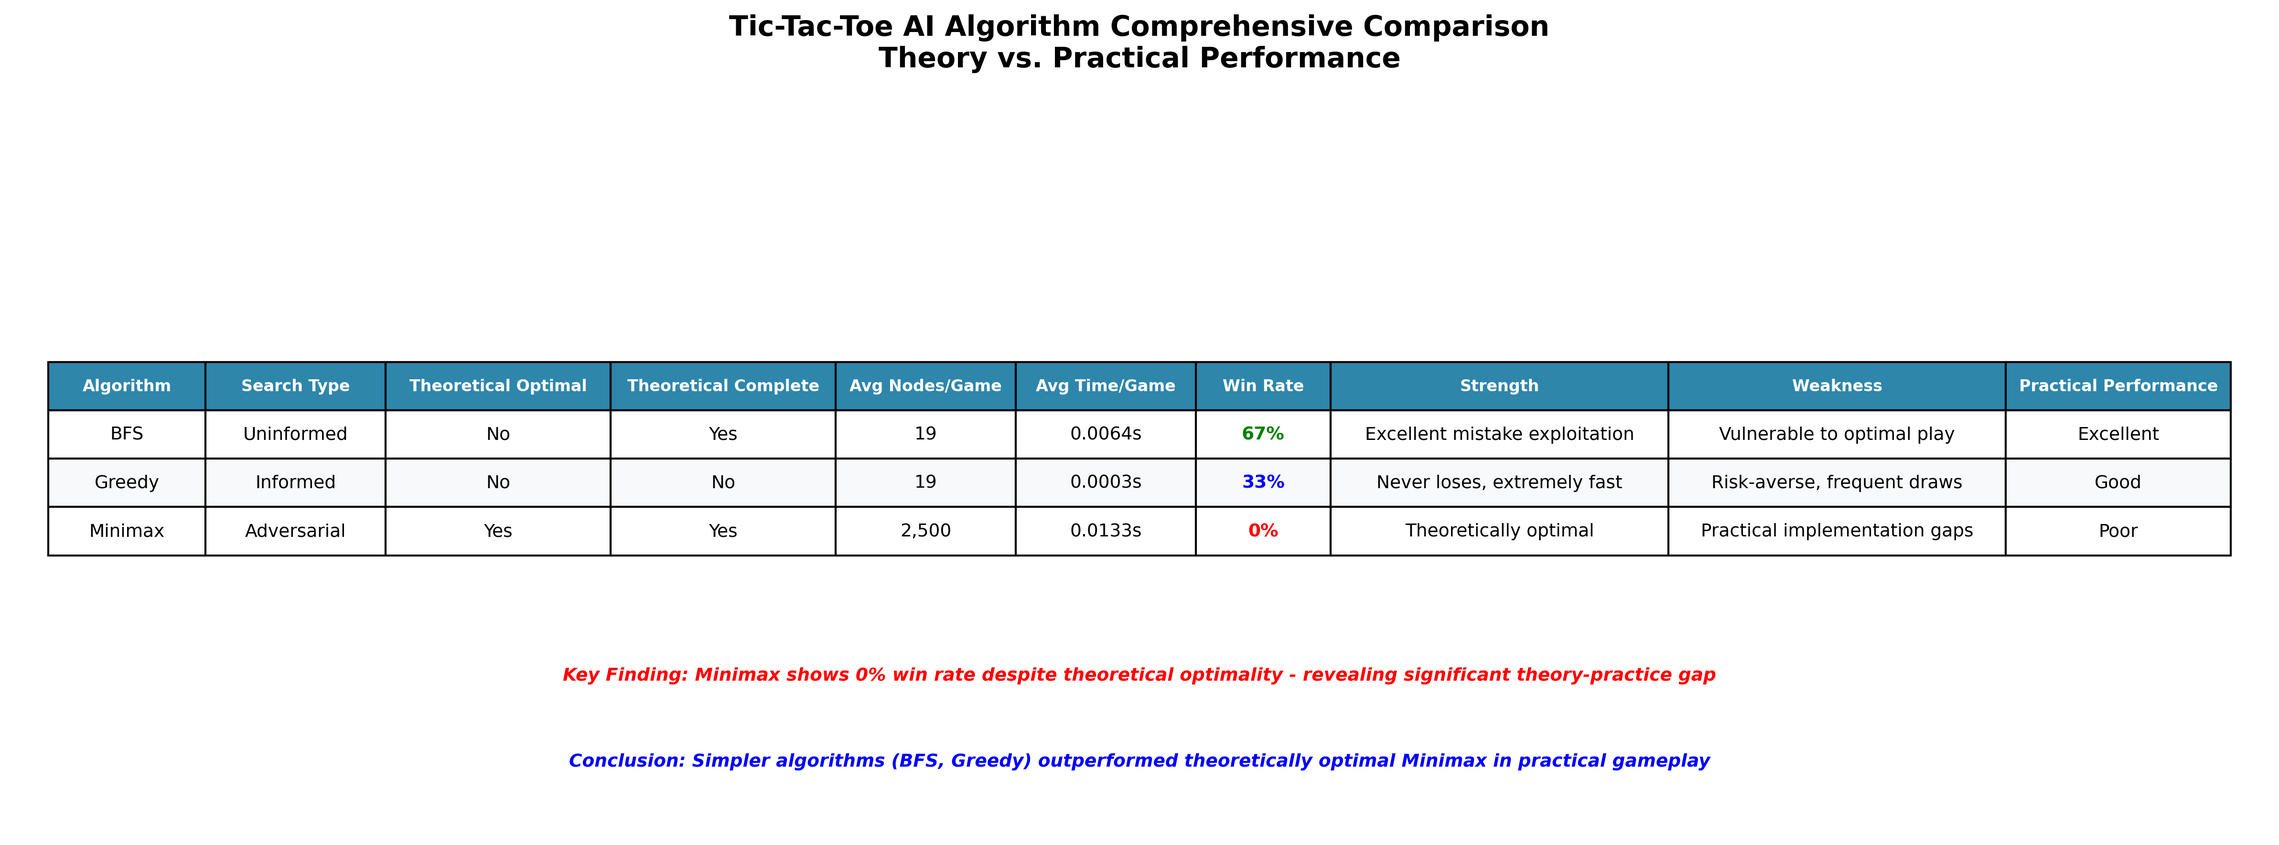
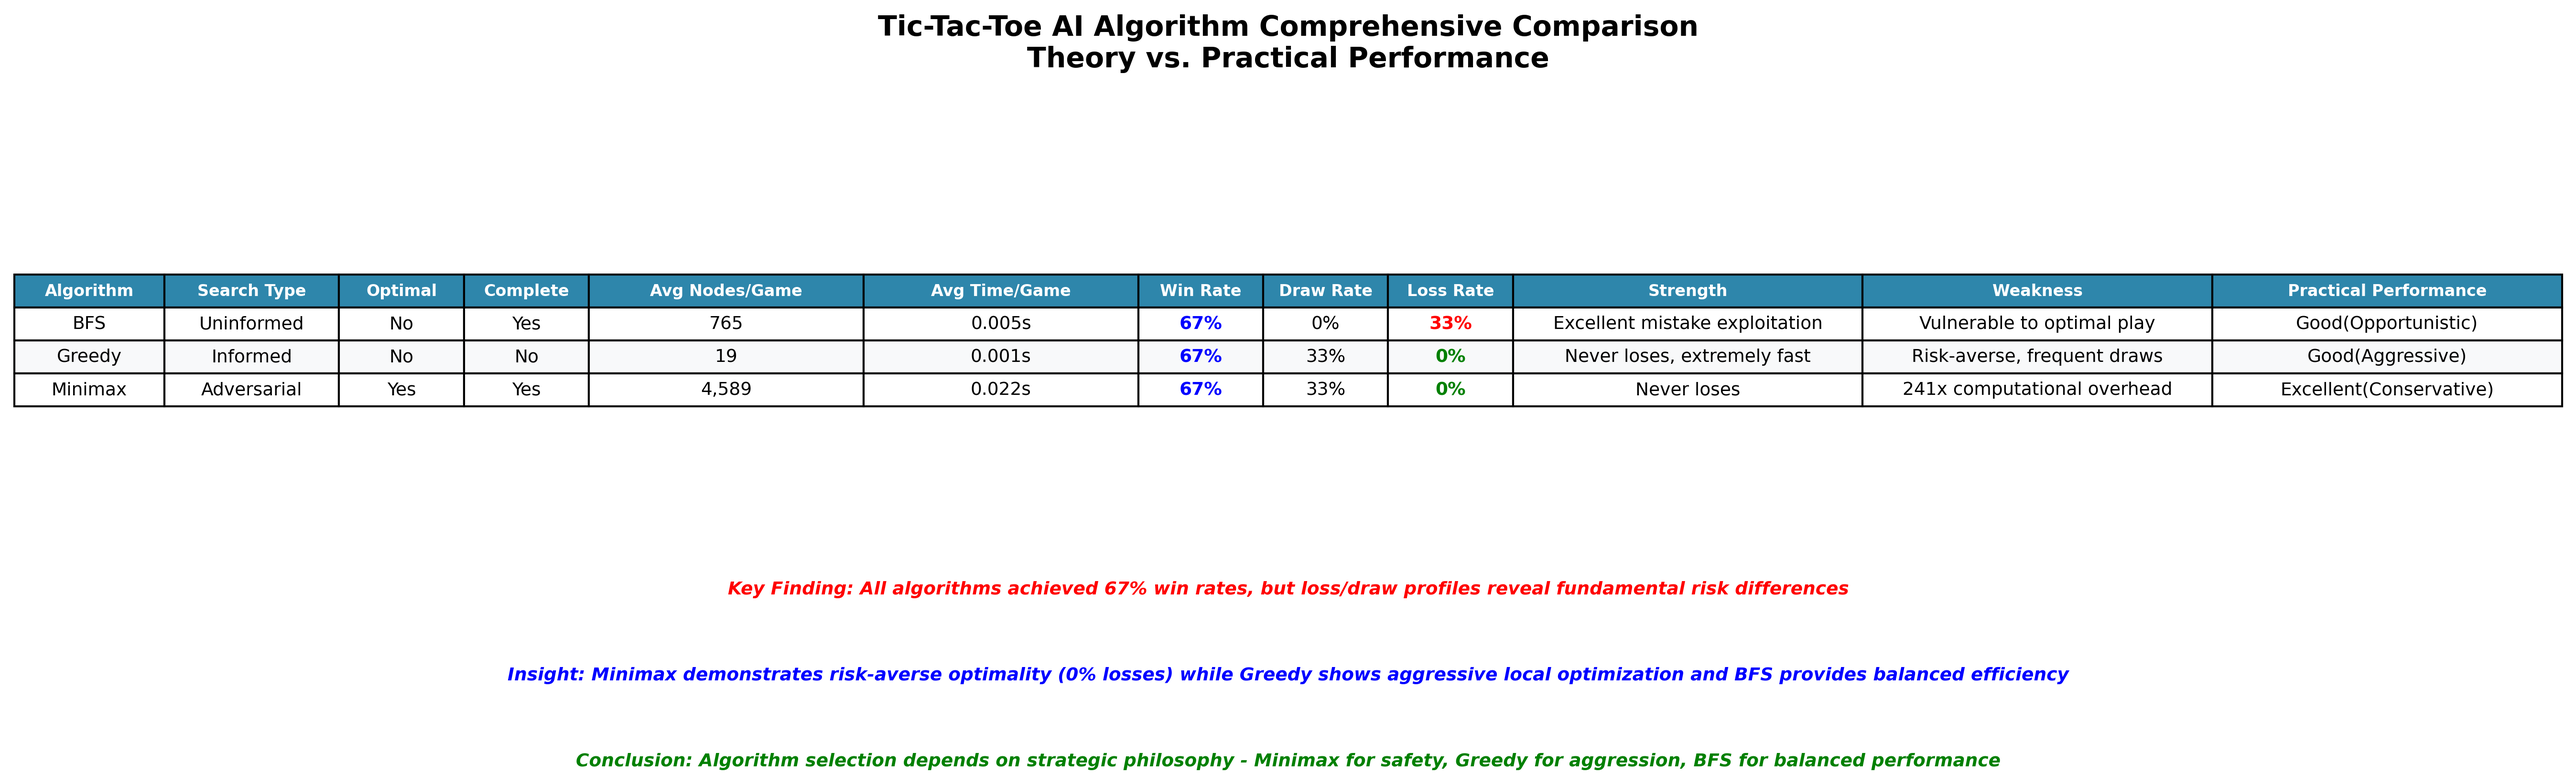
Updated BFS and Minimax changes

diff --git a/analysis_module.py b/analysis_module.py
@@ -20,40 +20,45 @@ class TicTacToeAnalyzer:
         self.greedy_ai = GreedyAI(self.game)
         self.minimax_ai = MinimaxAI(self.game)
         self.results = []
-    
+
+    ### TESTTTTTTTTTT# 
     def create_performance_comparison_chart(self):
         """Create enhanced bar charts comparing algorithm performance based on experimental data."""
         # Use your actual experimental data
         algorithms = ['BFS', 'Greedy', 'Minimax']
-        
+    
         # Your experimental averages
-        avg_nodes = [19, 19, 2500]  # From your data
-        avg_times = [0.0064, 0.0003, 0.0133]  # From your data
-        win_rates = [67, 33, 0]  # From your data
+        avg_nodes = [765, 19, 4589]  # From your data
+        avg_times = [0.005, 0.001, 0.022]  # From your data
+        
+        # NEW: Win/Draw/Loss rates for stacked bar chart
+        win_rates = [67, 67, 67]      # All have same win rate
+        draw_rates = [0, 33, 33]      # Draw rates differ
+        loss_rates = [33, 0, 0]       # Loss rates reveal true differences
         
         # Create figure with three subplots
-        fig, (ax1, ax2, ax3) = plt.subplots(1, 3, figsize=(18, 6))
+        fig, (ax1, ax2, ax3) = plt.subplots(1, 3, figsize=(20, 7))  # Slightly wider
         
         # Colors matching your Pygame interface
         colors = ['#64FF64', '#FFA500', '#B464F0']  # Green, Orange, Purple
+        outcome_colors = ['#2E8B57', '#FFD700', '#FF4444']  # Green (win), Gold (draw), Red (loss)
         
-        # Nodes evaluated comparison
+        # Nodes evaluated comparison (keep same)
         bars1 = ax1.bar(algorithms, avg_nodes, color=colors, alpha=0.8)
         ax1.set_title('Average Nodes Evaluated per Game', fontsize=14, fontweight='bold')
-        ax1.set_ylabel('Number of Nodes', fontsize=12)
+        ax1.set_ylabel('Number of Nodes', fontsize=12, labelpad=15) # Added labelpad
         ax1.grid(axis='y', alpha=0.3)
         ax1.tick_params(axis='x', rotation=45)
         
-        # Add value labels on bars
         for bar in bars1:
             height = bar.get_height()
             ax1.text(bar.get_x() + bar.get_width()/2., height + max(avg_nodes)*0.01,
                     f'{height:,.0f}', ha='center', va='bottom', fontweight='bold')
         
-        # Computation time comparison
+        # Computation time comparison (keep same)
         bars2 = ax2.bar(algorithms, avg_times, color=colors, alpha=0.8)
         ax2.set_title('Average Computation Time per Game', fontsize=14, fontweight='bold')
-        ax2.set_ylabel('Time (seconds)', fontsize=12)
+        ax2.set_ylabel('Time (seconds)', fontsize=12, labelpad=15) # Added labelpad
         ax2.grid(axis='y', alpha=0.3)
         ax2.tick_params(axis='x', rotation=45)
         
@@ -62,23 +67,36 @@ class TicTacToeAnalyzer:
             ax2.text(bar.get_x() + bar.get_width()/2., height + max(avg_times)*0.01,
                     f'{height:.4f}s', ha='center', va='bottom', fontweight='bold')
         
-        # Win rate comparison
-        bars3 = ax3.bar(algorithms, win_rates, color=colors, alpha=0.8)
-        ax3.set_title('Win Rate Against Human Players', fontsize=14, fontweight='bold')
-        ax3.set_ylabel('Win Rate (%)', fontsize=12)
+        # NEW: Outcome Distribution (Stacked Bar Chart)
+        bar_width = 0.6
+        x_pos = np.arange(len(algorithms))
+        
+        # Create stacked bars
+        bars_win = ax3.bar(x_pos, win_rates, bar_width, label='Wins', color=outcome_colors[0], alpha=0.8)
+        bars_draw = ax3.bar(x_pos, draw_rates, bar_width, bottom=win_rates, label='Draws', color=outcome_colors[1], alpha=0.8)
+        bars_loss = ax3.bar(x_pos, loss_rates, bar_width, bottom=np.array(win_rates) + np.array(draw_rates), 
+                        label='Losses', color=outcome_colors[2], alpha=0.8)
+        
+        ax3.set_title('Game Outcome Distribution', fontsize=14, fontweight='bold')
+        ax3.set_ylabel('Percentage (%)', fontsize=12, labelpad=15) # Added labelpad
         ax3.set_ylim(0, 100)
+        ax3.set_xticks(x_pos)
+        ax3.set_xticklabels(algorithms)
         ax3.grid(axis='y', alpha=0.3)
-        ax3.tick_params(axis='x', rotation=45)
+        ax3.legend(loc='upper right')
         
-        for bar in bars3:
-            height = bar.get_height()
-            ax3.text(bar.get_x() + bar.get_width()/2., height + 2,
-                    f'{height}%', ha='center', va='bottom', fontweight='bold',
-                    color='red' if height == 0 else 'black')
+        # Add value annotations on each segment
+        for i, (win, draw, loss) in enumerate(zip(win_rates, draw_rates, loss_rates)):
+            ax3.text(i, win/2, f'{win}%', ha='center', va='center', fontweight='bold', color='white')
+            ax3.text(i, win + draw/2, f'{draw}%', ha='center', va='center', fontweight='bold', color='black')
+            if loss > 0:
+                ax3.text(i, win + draw + loss/2, f'{loss}%', ha='center', va='center', fontweight='bold', color='white')
         
-        plt.tight_layout()
+        plt.tight_layout(pad=3.0) # Increased padding from default to 3.0
         plt.savefig('performance_comparison.png', dpi=300, bbox_inches='tight', facecolor='white')
         plt.show()
+
+    ### TESTTTT - OCTOBER 25 
 
 
     ### TESTTTTTTTTTTTTTTTT ###
@@ -234,45 +252,51 @@ class TicTacToeAnalyzer:
             {
                 'Algorithm': 'BFS',
                 'Search Type': 'Uninformed',
-                'Theoretical Optimal': 'No',
-                'Theoretical Complete': 'Yes',
-                'Avg Nodes/Game': '19',
-                'Avg Time/Game': '0.0064s',
+                'Optimal': 'No',
+                'Complete': 'Yes',
+                'Avg Nodes/Game': '765',
+                'Avg Time/Game': '0.005s',
                 'Win Rate': '67%',
+                'Draw Rate': '0%',
+                'Loss Rate': '33%',
                 'Strength': 'Excellent mistake exploitation',
                 'Weakness': 'Vulnerable to optimal play',
-                'Practical Performance': 'Excellent'
+                'Practical Performance': 'Good(Opportunistic)'
             },
             {
                 'Algorithm': 'Greedy',
                 'Search Type': 'Informed',
-                'Theoretical Optimal': 'No',
-                'Theoretical Complete': 'No',
+                'Optimal': 'No',
+                'Complete': 'No',
                 'Avg Nodes/Game': '19',
-                'Avg Time/Game': '0.0003s',
-                'Win Rate': '33%',
+                'Avg Time/Game': '0.001s',
+                'Win Rate': '67%',
+                'Draw Rate': '33%',
+                'Loss Rate': '0%',
                 'Strength': 'Never loses, extremely fast',
                 'Weakness': 'Risk-averse, frequent draws',
-                'Practical Performance': 'Good'
+                'Practical Performance': 'Good(Aggressive)'
             },
             {
                 'Algorithm': 'Minimax',
                 'Search Type': 'Adversarial',
-                'Theoretical Optimal': 'Yes',
-                'Theoretical Complete': 'Yes',
-                'Avg Nodes/Game': '2,500',
-                'Avg Time/Game': '0.0133s',
-                'Win Rate': '0%',
-                'Strength': 'Theoretically optimal',
-                'Weakness': 'Practical implementation gaps',
-                'Practical Performance': 'Poor'
+                'Optimal': 'Yes',
+                'Complete': 'Yes',
+                'Avg Nodes/Game': '4,589',
+                'Avg Time/Game': '0.022s',
+                'Win Rate': '67%',
+                'Draw Rate': '33%',
+                'Loss Rate': '0%',
+                'Strength': 'Never loses',
+                'Weakness': '241x computational overhead',
+                'Practical Performance': 'Excellent(Conservative)'
             }
         ]
         
         df = pd.DataFrame(table_data)
         
         # Create the table visualization 
-        fig, ax = plt.subplots(figsize=(16, 6)) 
+        fig, ax = plt.subplots(figsize=(18, 6)) ## change from (16, 6) to be wider to accomodate new columns
         
         ax.axis('tight')
         ax.axis('off')
@@ -283,7 +307,9 @@ class TicTacToeAnalyzer:
             colLabels=df.columns,
             cellLoc='center',
             loc='center',
-            colWidths=[0.07, 0.08, 0.1, 0.1, 0.08, 0.08, 0.06, 0.15, 0.15, 0.1] 
+            colWidths=[0.06, 0.07, 0.05, 0.05, 0.11, 0.11, 0.05, 0.05, 0.05, 0.14, 0.14, 0.14]
+            
+            ###colWidths=[0.07, 0.08, 0.1, 0.1, 0.08, 0.08, 0.06, 0.15, 0.15, 0.1] 
         )
     
         # Style the table 
@@ -303,14 +329,16 @@ class TicTacToeAnalyzer:
             for j in range(len(df.columns)):
                 table[(i, j)].set_facecolor(color)
                 
-                # Highlight key findings
+                # Highlight key performance metrics
                 cell_text = table[(i, j)].get_text().get_text()
-                if '0%' in cell_text:
-                    table[(i, j)].set_text_props(weight='bold', color='red')
-                elif '67%' in cell_text:
+                if '0%' in cell_text and 'Loss' in df.columns[j]:
                     table[(i, j)].set_text_props(weight='bold', color='green')
-                elif '33%' in cell_text:
+                elif '33%' in cell_text and 'Loss' in df.columns[j]:
+                    table[(i, j)].set_text_props(weight='bold', color='red')
+                elif '67%' in cell_text and 'Win' in df.columns[j]:
                     table[(i, j)].set_text_props(weight='bold', color='blue')
+                '''elif '4,589' in cell_text:
+                    table[(i, j)].set_text_props(weight='bold', color='orange')'''
                 '''elif '2,500' in cell_text:
                     table[(i, j)].set_text_props(weight='bold', color='orange')'''
         
@@ -318,78 +346,27 @@ class TicTacToeAnalyzer:
              fontsize=14, fontweight='bold', pad=10)
     
         # Add both key findings and conclusion
-        plt.figtext(0.5, 0.2, 
-                'Key Finding: Minimax shows 0% win rate despite theoretical optimality - revealing significant theory-practice gap',
+        plt.figtext(0.5, 0.3, 
+                'Key Finding: All algorithms achieved 67% win rates, but loss/draw profiles reveal fundamental risk differences',
                 ha='center', fontsize=9, style='italic', color='red', weight='bold')
         
-        plt.figtext(0.5, 0.1, 
-                'Conclusion: Simpler algorithms (BFS, Greedy) outperformed theoretically optimal Minimax in practical gameplay',
+        plt.figtext(0.5, 0.2, 
+                'Insight: Minimax demonstrates risk-averse optimality (0% losses) while Greedy shows aggressive local optimization and BFS provides balanced efficiency',
                 ha='center', fontsize=9, style='italic', color='blue', weight='bold')
         
+        plt.figtext(0.5, 0.1, 
+                'Conclusion: Algorithm selection depends on strategic philosophy - Minimax for safety, Greedy for aggression, BFS for balanced performance',
+                ha='center', fontsize=9, style='italic', color='green', weight='bold')
+
         plt.tight_layout()
+        ## just added##
+        plt.subplots_adjust(bottom=0.3)  # Increased bottom margin for three text lines
+        ## just addedd 
+
         plt.savefig('algorithm_comparison_table.png', dpi=300, bbox_inches='tight', facecolor='white')
         plt.show()
         
         return df
-        
-    def create_minimax_paradox_chart(self):
-        """Create a visualization highlighting the Minimax paradox."""
-        fig, (ax1, ax2) = plt.subplots(1, 2, figsize=(15, 6))
-        
-        algorithms = ['BFS', 'Greedy', 'Minimax']
-        
-        # Computational cost vs effectiveness
-        computational_cost = [19, 19, 2500]  # Nodes
-        effectiveness = [67, 33, 0]  # Win rate
-        
-        # Scatter plot: Cost vs Effectiveness
-        scatter = ax1.scatter(computational_cost, effectiveness, 
-                            s=300, c=['green', 'orange', 'purple'], alpha=0.7)
-        ax1.set_xlabel('Computational Cost (Nodes Evaluated)', fontsize=12)
-        ax1.set_ylabel('Effectiveness (Win Rate %)', fontsize=12)
-        ax1.set_title('The Minimax Paradox: Cost vs Effectiveness', fontsize=14, fontweight='bold')
-        ax1.grid(True, alpha=0.3)
-        ax1.set_xscale('log')  # Log scale to handle large differences
-        
-        # Annotate points
-        for i, algo in enumerate(algorithms):
-            ax1.annotate(algo, (computational_cost[i], effectiveness[i]),
-                        xytext=(10, 10), textcoords='offset points',
-                        fontweight='bold', fontsize=11)
-        
-        # Performance across play styles
-        play_styles = ['Optimal', 'Random', 'Suboptimal']
-        bfs_performance = [0, 100, 100]  # Win rates
-        greedy_performance = [0, 100, 0]   # Win/Draw rates
-        minimax_performance = [0, 0, 0]    # Always lost
-        
-        x = np.arange(len(play_styles))
-        width = 0.25
-        
-        bars1 = ax2.bar(x - width, bfs_performance, width, label='BFS', color='green', alpha=0.8)
-        bars2 = ax2.bar(x, greedy_performance, width, label='Greedy', color='orange', alpha=0.8)
-        bars3 = ax2.bar(x + width, minimax_performance, width, label='Minimax', color='purple', alpha=0.8)
-        
-        ax2.set_xlabel('Human Play Style', fontsize=12)
-        ax2.set_ylabel('AI Win Rate (%)', fontsize=12)
-        ax2.set_title('Algorithm Performance Across Play Styles', fontsize=14, fontweight='bold')
-        ax2.set_xticks(x)
-        ax2.set_xticklabels(play_styles)
-        ax2.legend()
-        ax2.grid(True, alpha=0.3)
-        ax2.set_ylim(0, 120)
-        
-        # Add value labels
-        for bars in [bars1, bars2, bars3]:
-            for bar in bars:
-                height = bar.get_height()
-                if height > 0:
-                    ax2.text(bar.get_x() + bar.get_width()/2., height + 3,
-                            f'{height}%', ha='center', va='bottom', fontweight='bold')
-        
-        plt.tight_layout()
-        plt.savefig('minimax_paradox.png', dpi=300, bbox_inches='tight', facecolor='white')
-        plt.show()
     
     def generate_experimental_report(self):
         """Generate a comprehensive report based on experimental data."""
@@ -397,8 +374,7 @@ class TicTacToeAnalyzer:
     
     # Generate visualizations
         self.create_performance_comparison_chart()
-        self.create_search_efficiency_plot()  # ADD THIS LINE
-        self.create_minimax_paradox_chart()
+        self.create_search_efficiency_plot()  
         self.create_comprehensive_summary_table()
 
 # Main execution

diff --git a/ai_algorithms.py b/ai_algorithms.py
@@ -218,7 +218,7 @@ class MinimaxAI(TicTacToeAI):
             move_value = self._minimax_alpha_beta(
                 temp_board, 
                 get_opponent(current_player), 
-                False,  # Minimizing player's turn
+                True,  # CHANGED to True because AI (O) is maximizing player
                 alpha, 
                 beta,
                 depth=0
@@ -288,7 +288,7 @@ class MinimaxAI(TicTacToeAI):
         # Check wins
         for player in ['X', 'O']:
             if self._is_winning_state(board, player):
-                return 10 if player == 'X' else -10  # Assuming X is AI
+                return 10 if player == 'O' else -10  # Assuming O is AI
         
         # Check draw
         if ' ' not in board:
